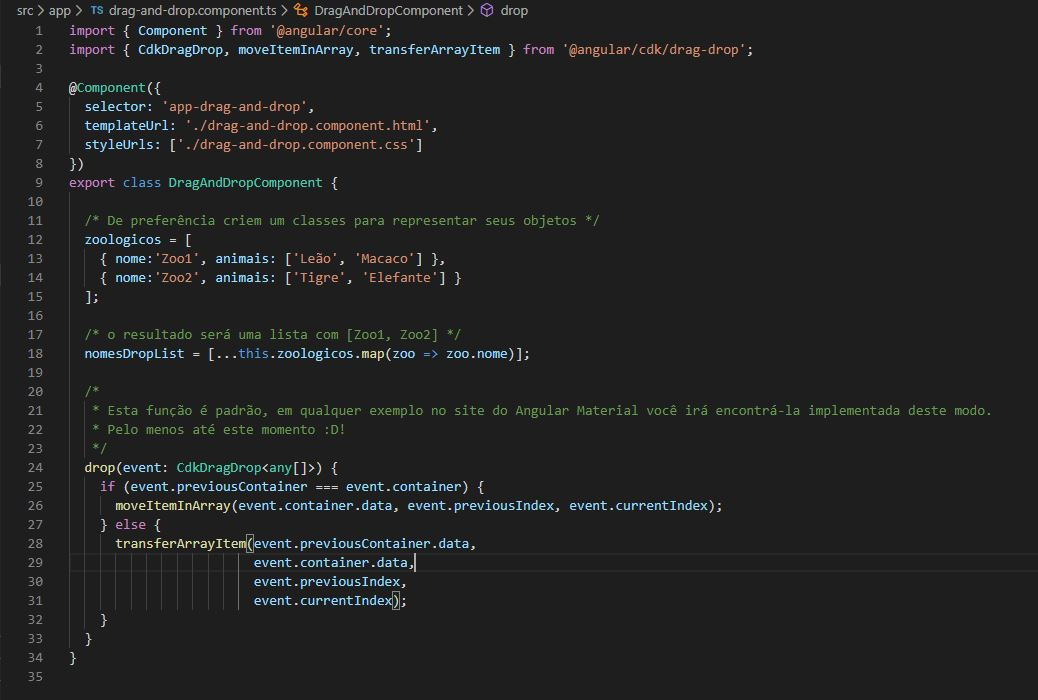
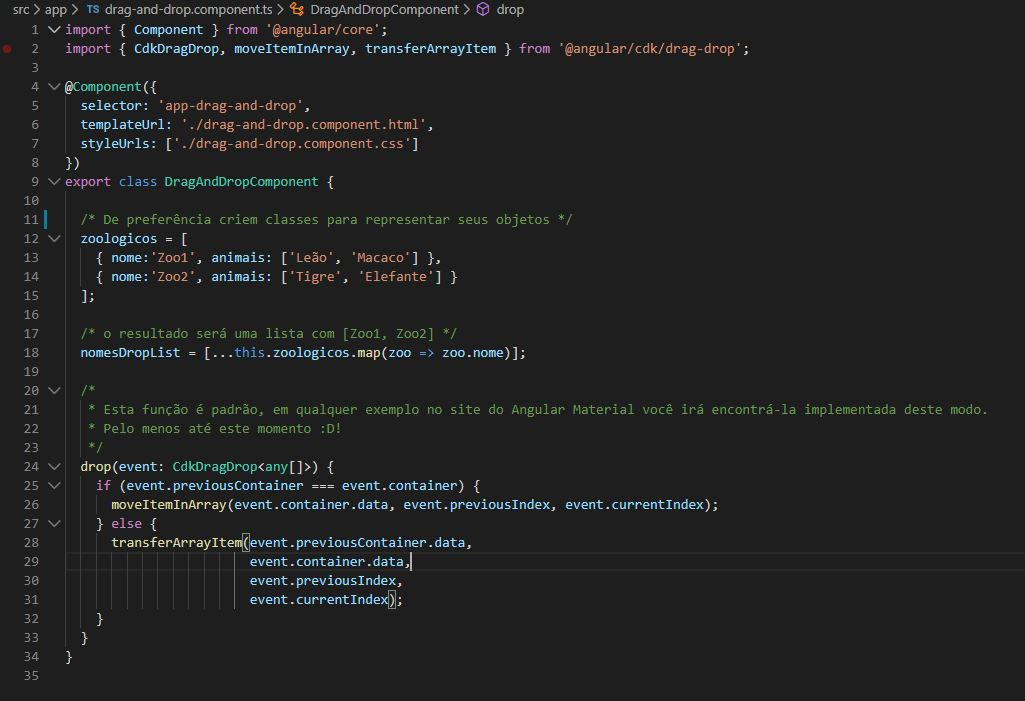
Correção nos textos

diff --git a/src/app/drag-and-drop.component.ts b/src/app/drag-and-drop.component.ts
@@ -8,7 +8,7 @@ import { CdkDragDrop, moveItemInArray, transferArrayItem } from '@angular/cdk/dr
 })
 export class DragAndDropComponent {
 
-  /* De preferência criem um classes para representar seus objetos */
+  /* De preferência criem classes para representar seus objetos */
   zoologicos = [
     { nome:'Zoo1', animais: ['Leão', 'Macaco'] },
     { nome:'Zoo2', animais: ['Tigre', 'Elefante'] }

diff --git a/README.md b/README.md
@@ -1,11 +1,11 @@
 # Drag and Drop com Angualar Material e DropoList dinâmica
-Já precisou criar um drag and drop com uma lista de objetos e não quis implementar cada DropList em um trexo html diferente?
-Eu também e por este motivo criei um simples exemplo de como utilizar o drag and drop do Angular Material com este intúito.
+Já precisou criar um drag and drop com uma lista de objetos e não quis implementar cada DropList em um trecho html diferente?
+Eu também e por este motivo criei um simples exemplo de como utilizar o drag and drop do Angular Material com este intuito.
 
 ![Drag and Drop com DropList dinâmica](https://github.com/arthur-lima-dev/mat-drag-and-drop-example/blob/master/doc/drag-and-drop.gif)
 
 ### Mas o que tem de extraordinário nisso?
-Nada de mais! Rsrs, mas na maioría dos exemplos que você vai encontrar cada DropList tem um respectivo trexo html, já aqui não, as DropList's são inseridas dinamicamente no html ao iterarmos numa lista de objetos.
+Nada de mais! Rsrs, mas na maioría dos exemplos que você vai encontrar cada DropList tem um respectivo trecho html, já aqui não, as DropList's são inseridas dinamicamente no html ao iterarmos numa lista de objetos.
 
 # Pressupostos!
   - Irei do ponto de partida de que você ja sabe criar e configurar um projeto Angular IO
@@ -25,7 +25,7 @@ A tela inicial é composta por três arquivos:
  - drag-and-drop.component.ts
  - drag-and-drop.component.css
  
-Nós iremos focar apenas no ".html" e no ".ts", pois o ".css" está identico a qualquer exemplo de drag and drop com mais de uma DropList no site do Angular Material.
+Nós iremos focar apenas no ".html" e no ".ts", pois o ".css" está idêntico a qualquer exemplo de drag and drop com mais de uma DropList no site do Angular Material.
 
 Senhoras e senhores lhes apresento o ".html"
 ![Screenshot](https://github.com/arthur-lima-dev/mat-drag-and-drop-example/blob/master/doc/drag-and-drop.html.jpg)
@@ -34,5 +34,6 @@ A diferença desse para os demais exemplo é que o utilizamos o atributo id para
 Agora vamos para o ".ts"
 ![Screenshot](https://github.com/arthur-lima-dev/mat-drag-and-drop-example/blob/master/doc/drag-and-drop.ts.jpg)
 Nada de mais concordam? Entretanto, tive muita dificuldade para encontrar algo que me ajuda-se a fazê-lo quando precisei.
+
 
 **Obrigado por chegar até aqui! Fim**
